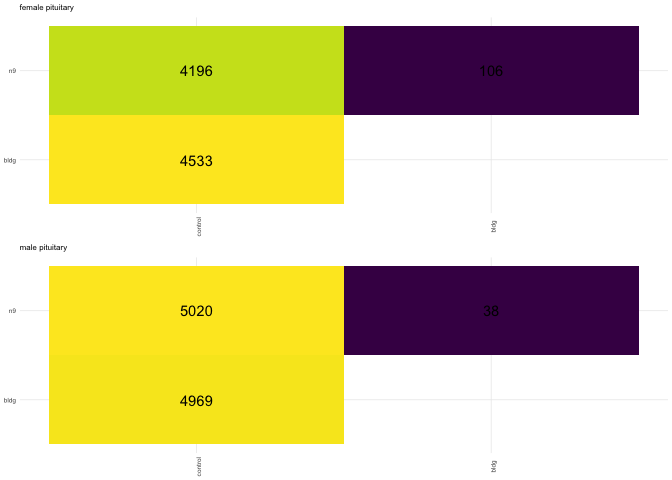
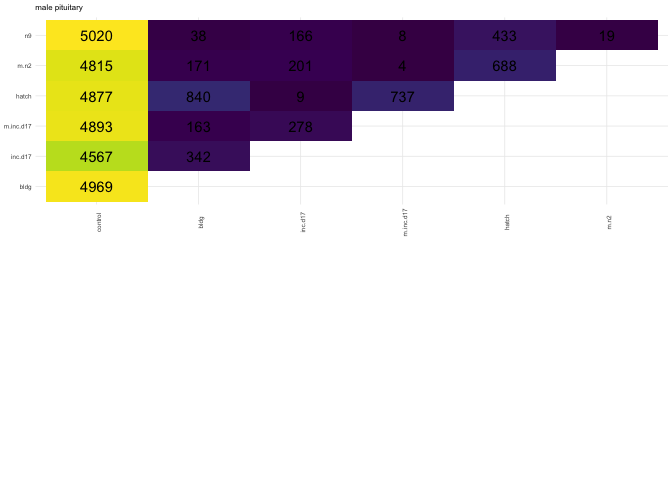
more total degs

diff --git a/analysis/04_DESeq2_sexes.md b/analysis/04_DESeq2_sexes.md
@@ -332,22 +332,93 @@ Run DESeq on all subsets of the data
 Calculate and plot total DEGs
 -----------------------------
 
-    DEGs.female_hypothalamus <- returntotalDEGs(dds.female_hypothalamus)
-    DEGs.female_pituitary <- returntotalDEGs(dds.female_pituitary)
-    DEGs.female_gonad <- returntotalDEGs(dds.female_gonad)
-    DEGs.male_hypothalamus <- returntotalDEGs(dds.male_hypothalamus)
+    #DEGs.female_hypothalamus <- returntotalDEGs(dds.female_hypothalamus)
+    #DEGs.female_pituitary <- returntotalDEGs(dds.female_pituitary)
+    #DEGs.female_gonad <- returntotalDEGs(dds.female_gonad)
+    #DEGs.male_hypothalamus <- returntotalDEGs(dds.male_hypothalamus)
     DEGs.male_pituitary <- returntotalDEGs(dds.male_pituitary)
-    DEGs.male_gondad <- returntotalDEGs(dds.male_gondad)
+
+    ## [1] "control.bldg"
+    ## [1] "control.inc.d17"
+    ## [1] "control.m.inc.d17"
+    ## [1] "control.hatch"
+    ## [1] "control.m.n2"
+    ## [1] "control.n9"
+    ## [1] "bldg.inc.d17"
+    ## [1] "bldg.m.inc.d17"
+    ## [1] "bldg.hatch"
+    ## [1] "bldg.m.n2"
+    ## [1] "bldg.n9"
+    ## [1] "inc.d17.m.inc.d17"
+    ## [1] "inc.d17.hatch"
+    ## [1] "inc.d17.m.n2"
+    ## [1] "inc.d17.n9"
+    ## [1] "m.inc.d17.hatch"
+    ## [1] "m.inc.d17.m.n2"
+    ## [1] "m.inc.d17.n9"
+    ## [1] "hatch.m.n2"
+    ## [1] "hatch.n9"
+    ## [1] "m.n2.n9"
+    ##                          V1        V2   V3
+    ## control.bldg        control      bldg 4969
+    ## control.inc.d17     control   inc.d17 4567
+    ## control.m.inc.d17   control m.inc.d17 4893
+    ## control.hatch       control     hatch 4877
+    ## control.m.n2        control      m.n2 4815
+    ## control.n9          control        n9 5020
+    ## bldg.inc.d17           bldg   inc.d17  342
+    ## bldg.m.inc.d17         bldg m.inc.d17  163
+    ## bldg.hatch             bldg     hatch  840
+    ## bldg.m.n2              bldg      m.n2  171
+    ## bldg.n9                bldg        n9   38
+    ## inc.d17.m.inc.d17   inc.d17 m.inc.d17  278
+    ## inc.d17.hatch       inc.d17     hatch    9
+    ## inc.d17.m.n2        inc.d17      m.n2  201
+    ## inc.d17.n9          inc.d17        n9  166
+    ## m.inc.d17.hatch   m.inc.d17     hatch  737
+    ## m.inc.d17.m.n2    m.inc.d17      m.n2    4
+    ## m.inc.d17.n9      m.inc.d17        n9    8
+    ## hatch.m.n2            hatch      m.n2  688
+    ## hatch.n9              hatch        n9  433
+    ## m.n2.n9                m.n2        n9   19
+
+    #DEGs.male_gondad <- returntotalDEGs(dds.male_gondad)
 
     #a <- plottotalDEGs(DEGs.female_hypothalamus, "female hypothalamus")
     #b <- plottotalDEGs(DEGs.female_pituitary, "female pituitary")
     #c <- plottotalDEGs(DEGs.female_gonad, "female gonad")
     #d <- plottotalDEGs(DEGs.male_hypothalamus, "male hypothalamus")
     e <- plottotalDEGs(DEGs.male_pituitary, "male pituitary")
+
+    ##                          V1        V2   V3
+    ## control.bldg        control      bldg 4969
+    ## control.inc.d17     control   inc.d17 4567
+    ## control.m.inc.d17   control m.inc.d17 4893
+    ## control.hatch       control     hatch 4877
+    ## control.m.n2        control      m.n2 4815
+    ## control.n9          control        n9 5020
+    ## bldg.inc.d17           bldg   inc.d17  342
+    ## bldg.m.inc.d17         bldg m.inc.d17  163
+    ## bldg.hatch             bldg     hatch  840
+    ## bldg.m.n2              bldg      m.n2  171
+    ## bldg.n9                bldg        n9   38
+    ## inc.d17.m.inc.d17   inc.d17 m.inc.d17  278
+    ## inc.d17.hatch       inc.d17     hatch    9
+    ## inc.d17.m.n2        inc.d17      m.n2  201
+    ## inc.d17.n9          inc.d17        n9  166
+    ## m.inc.d17.hatch   m.inc.d17     hatch  737
+    ## m.inc.d17.m.n2    m.inc.d17      m.n2    4
+    ## m.inc.d17.n9      m.inc.d17        n9    8
+    ## hatch.m.n2            hatch      m.n2  688
+    ## hatch.n9              hatch        n9  433
+    ## m.n2.n9                m.n2        n9   19
+
+![](../figures/sexes/plotDEGs-1.png)
+
     #f <- plottotalDEGs(DEGs.male_gondad, "male gonad")
 
     plot_grid(#a + theme(legend.position = "none"),
-              b + theme(legend.position = "none"),
+              #b + theme(legend.position = "none"),
               #c + theme(legend.position = "none"),
               #d + theme(legend.position = "none"),
               e + theme(legend.position = "none"),
